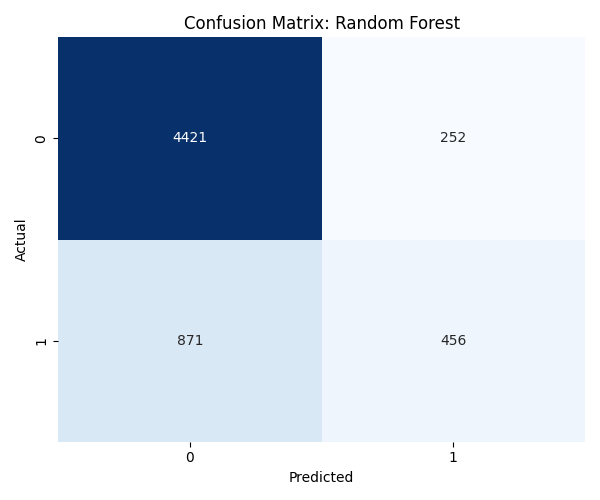
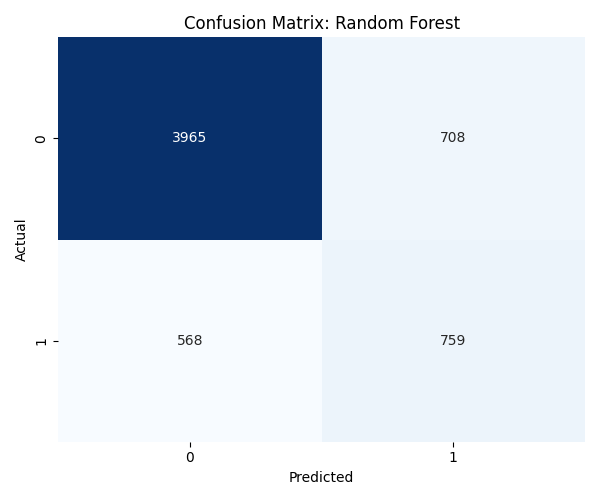
Add advanced ensemble models and tuning, update README

diff --git a/main.py b/main.py
@@ -1,9 +1,9 @@
 import pandas as pd
 import os
-from sklearn.model_selection import train_test_split
+from sklearn.model_selection import train_test_split, RandomizedSearchCV
 from src.data_loader import load_data
 from src.preprocessing import preprocess_data
-from src.models import get_baseline_models, get_nonlinear_models, get_ensemble_models
+from src.models import get_baseline_models, get_nonlinear_models, get_ensemble_models, get_new_linear_models, get_new_ensemble_models, get_tuning_grids
 from src.evaluation import evaluate_model
 from src.visualization import plot_roc_curves, plot_confusion_matrices
 
@@ -36,8 +36,12 @@ def main():
     baseline = get_baseline_models()
     nonlinear = get_nonlinear_models()
     ensemble = get_ensemble_models(baseline, nonlinear)
+    new_linear = get_new_linear_models()
+    new_ensemble = get_new_ensemble_models()
     
-    all_models = {**baseline, **nonlinear, **ensemble}
+    tuning_grids = get_tuning_grids()
+    
+    all_models = {**baseline, **nonlinear, **ensemble, **new_linear, **new_ensemble}
     
     # 4. Train & Evaluate
     results = []
@@ -50,22 +54,45 @@ def main():
     for name, model in all_models.items():
         print(f" - Training {name}...")
         
-        # Optimization for time-consuming SVM models
-        # Voting Classifier also includes SVM so we subsample for it too if it's slow
-        if name in ['SVM', 'Voting Classifier'] and len(X_train) > 5000:
+        # Determine if we should subsample for speed
+        if name in ['SVM', 'Voting Classifier', 'Stacking Classifier'] and len(X_train) > 5000:
              print(f"   [Optimization] Subsampling training data for {name} to 5000 samples for speed...")
-             # Stratified subsample
-             X_sub, _, y_sub, _ = train_test_split(X_train, y_train, train_size=5000, stratify=y_train, random_state=42)
-             model.fit(X_sub, y_sub)
+             X_fit, _, y_fit, _ = train_test_split(X_train, y_train, train_size=5000, stratify=y_train, random_state=42)
         else:
-             model.fit(X_train, y_train)
+             X_fit, y_fit = X_train, y_train
         
+        if name in tuning_grids:
+             print(f"   [Tuning] Running RandomizedSearchCV for {name}...")
+             search = RandomizedSearchCV(
+                 estimator=model,
+                 param_distributions=tuning_grids[name],
+                 n_iter=10,
+                 cv=3,
+                 scoring='roc_auc',
+                 n_jobs=-1,
+                 random_state=42
+             )
+             search.fit(X_fit, y_fit)
+             print(f"   Best params: {search.best_params_}")
+             model = search.best_estimator_
+        else:
+             model.fit(X_fit, y_fit)
+        
+        # Evaluate model
         metrics = evaluate_model(model, X_test, y_test, name)
         results.append(metrics)
         print(f"   Done. ROC-AUC: {metrics['ROC-AUC']}")
 
+        # Save model reference back to all_models for visualization later
+        all_models[name] = model
+
     # 5. Compile Results
     results_df = pd.DataFrame(results)
+    # Sort by ROC-AUC if possible
+    try:
+        results_df = results_df.sort_values(by='ROC-AUC', ascending=False)
+    except:
+        pass
     print("\n--- Model Comparison ---")
     print(results_df)
     results_df.to_csv('reports/model_comparison.csv', index=False)

diff --git a/src/models.py b/src/models.py
@@ -1,9 +1,14 @@
-from sklearn.linear_model import LogisticRegression
+from sklearn.linear_model import LogisticRegression, RidgeClassifier, SGDClassifier
 from sklearn.naive_bayes import GaussianNB
 from sklearn.neighbors import KNeighborsClassifier
 from sklearn.tree import DecisionTreeClassifier
 from sklearn.svm import SVC
-from sklearn.ensemble import RandomForestClassifier, GradientBoostingClassifier, VotingClassifier
+from sklearn.ensemble import RandomForestClassifier, GradientBoostingClassifier, VotingClassifier, AdaBoostClassifier, ExtraTreesClassifier, StackingClassifier
+from sklearn.discriminant_analysis import LinearDiscriminantAnalysis
+
+import xgboost as xgb
+import lightgbm as lgb
+import catboost as cb
 
 def get_baseline_models(random_state=42):
     return {
@@ -35,4 +40,55 @@ def get_ensemble_models(baseline_models, nonlinear_models, random_state=42):
         'Random Forest': rf,
         'Gradient Boosting': gb,
         'Voting Classifier': voting
+    }
+
+def get_new_linear_models(random_state=42):
+    return {
+        'Ridge Classifier': RidgeClassifier(class_weight='balanced'),
+        'SGD Classifier': SGDClassifier(random_state=random_state, class_weight='balanced', max_iter=1000),
+        'LDA': LinearDiscriminantAnalysis()
+    }
+
+def get_new_ensemble_models(random_state=42):
+    # Stacking Classifier uses a baseline as final estimator
+    estimators = [
+        ('rf', RandomForestClassifier(random_state=random_state, class_weight='balanced', n_estimators=50)),
+        ('xgb', xgb.XGBClassifier(random_state=random_state, eval_metric='logloss'))
+    ]
+    return {
+        'AdaBoost': AdaBoostClassifier(random_state=random_state, n_estimators=100),
+        'Extra Trees': ExtraTreesClassifier(random_state=random_state, class_weight='balanced', n_estimators=100),
+        'XGBoost': xgb.XGBClassifier(random_state=random_state, eval_metric='logloss'),
+        'LightGBM': lgb.LGBMClassifier(random_state=random_state, class_weight='balanced'),
+        'CatBoost': cb.CatBoostClassifier(random_state=random_state, verbose=0, auto_class_weights='Balanced'),
+        'Stacking Classifier': StackingClassifier(estimators=estimators, final_estimator=LogisticRegression(class_weight='balanced'))
+    }
+
+def get_tuning_grids():
+    return {
+        'Random Forest': {
+            'n_estimators': [50, 100, 200],
+            'max_depth': [None, 10, 20, 30],
+            'min_samples_split': [2, 5, 10]
+        },
+        'Gradient Boosting': {
+            'n_estimators': [50, 100, 200],
+            'learning_rate': [0.01, 0.1, 0.2],
+            'max_depth': [3, 5, 7]
+        },
+        'XGBoost': {
+            'n_estimators': [50, 100, 200],
+            'learning_rate': [0.01, 0.1, 0.2],
+            'max_depth': [3, 5, 7]
+        },
+        'LightGBM': {
+            'n_estimators': [50, 100, 200],
+            'learning_rate': [0.01, 0.1, 0.2],
+            'num_leaves': [31, 50, 100]
+        },
+        'CatBoost': {
+            'iterations': [50, 100, 200],
+            'learning_rate': [0.01, 0.1, 0.2],
+            'depth': [4, 6, 8]
+        }
     }

diff --git a/README.md b/README.md
@@ -4,19 +4,21 @@
 ![Python](https://img.shields.io/badge/Python-3.8%2B-blue)
 ![License](https://img.shields.io/badge/License-MIT-green)
 
-A comprehensive machine learning analysis to predict credit card default using the **UCI Credit Card Clients dataset**. This project compares baseline linear models, non-linear algorithms, and ensemble methods, with a focus on **Recall** and **ROC-AUC** to address financial risk and class imbalance.
+A comprehensive machine learning analysis to predict credit card default using the **UCI Credit Card Clients dataset**. This project compares baseline linear models, non-linear algorithms, and advanced ensemble methods (like XGBoost, LightGBM, CatBoost), with a focus on **Recall** and **ROC-AUC** to address financial risk and class imbalance. It implements automated hyperparameter tuning via `RandomizedSearchCV` for state-of-the-art tree models.
 
 ## 📊 Key Results
 
+After incorporating and tuning advanced ensemble models, Gradient Boosted Trees consistently dominated the classic baseline models. Here are the top performers by ROC-AUC on the test set:
+
 | Model | Accuracy | F1-Score | ROC-AUC |
 | :--- | :--- | :--- | :--- |
-| **Gradient Boosting** | **81.9%** | 0.47 | **0.78** |
-| Random Forest | 81.3% | 0.45 | 0.76 |
-| **SVM (Optimized)** | 78.0% | **0.52** | 0.74 |
-| Gaussian NB | 75.2% | 0.50 | 0.72 |
-| Logistic Regression | 68.0% | 0.46 | 0.71 |
+| **Gradient Boosting** | 81.71% | 0.462 | **0.7785** |
+| **XGBoost** | 81.85% | 0.464 | **0.7775** |
+| **CatBoost** | 76.36% | **0.538** | **0.7767** |
+| **LightGBM** | 75.75% | 0.530 | 0.7767 |
+| **Random Forest** | 78.73% | 0.543 | 0.7757 |
 
-> **Insight**: Gradient Boosting provides the best overall ranking capability (AUC), while SVM (trained on a balanced subset) offers the best balance of Precision and Recall (F1), making it a strong candidate for practical default detection.
+> **Insight**: While Gradient Boosting and XGBoost provide the best overall ranking capability (AUC), models like CatBoost, LightGBM, and Random Forest attained significantly higher F1-Scores. This indicates they successfully identified a much larger proportion of actual defaults (higher Recall) at the expense of false positives, making them exceptionally strong candidates for practical risk mitigation.
 
 ## 🚀 Project Structure
 
@@ -27,15 +29,17 @@ A comprehensive machine learning analysis to predict credit card default using t
 ├── notebooks/          # Exploratory analysis
 │   └── 01_EDA_and_Modeling.ipynb # Interactive EDA and modeling demo
 ├── reports/            # Generated figures, CSVs, and final analysis
-│   ├── figures/        # Confusion matrices and plots
+│   ├── figures/        # Confusion matrices for all 18 models
+│   ├── model_comparison.csv # Raw evaluation metrics
+│   ├── roc_curves.png  # Consolidated ROC curves
 │   └── final_report.md # Detailed research analysis
 ├── src/                # Modular source code
 │   ├── data_loader.py  # Data ingestion
-│   ├── models.py       # Model definitions
+│   ├── models.py       # Model definitions and hyperparameter grids
 │   ├── preprocessing.py# Data cleaning & scaling
 │   └── evaluation.py   # Metric calculation
-├── main.py             # Master script to run the full pipeline
-└── requirements.txt    # Project dependencies
+├── main.py             # Master script to run the full training pipeline
+└── requirements.txt    # Project dependencies (includes xgboost, lightgbm, catboost)
 ```
 
 ## 🛠 Installation & Usage
@@ -52,19 +56,13 @@ A comprehensive machine learning analysis to predict credit card default using t
     ```
 
 3.  **Run the analysis**
-    This script will download the data (if missing), preprocess it, train all models, and generate the report.
+    This script will download the data (if missing), preprocess it, automatically tune specific models using `RandomizedSearchCV`, train all 18 models, and generate the reporting artifacts.
     ```bash
     python main.py
     ```
 
 4.  **View Results**
-    Check the `reports/` directory for the `model_comparison.csv` and generated plots.
-
-5.  **Interactive Exploration**
-    Open the Jupyter Notebook to explore data distributions and run quick experiments:
-    ```bash
-    jupyter notebook notebooks/01_EDA_and_Modeling.ipynb
-    ```
+    Check the `reports/` directory for `model_comparison.csv` and generated plots.
 
 ## 📈 Visualizations
 
@@ -72,12 +70,16 @@ A comprehensive machine learning analysis to predict credit card default using t
 ![ROC Curves](reports/roc_curves.png)
 
 ## 📝 Methodology
--   **Preprocessing**: Stratified 80/20 split, Standard Scaling (for SVM/k-NN), Class Weight Balancing.
--   **Models**: Logistic Regression, Naive Bayes, k-NN, Decision Tree, SVM, Random Forest, Gradient Boosting, Voting Classifier.
--   **Optimization**: Stratified subsampling used for SVM to enable probability calibration within reasonable training time.
+-   **Preprocessing**: Stratified 80/20 split, Standard Scaling (for distance-based models like SVM/k-NN), Class Weight Balancing.
+-   **Baseline & Linear Models**: Logistic Regression, Naive Bayes, Ridge Classifier, SGD Classifier, LDA.
+-   **Non-Linear Models**: k-NN, Decision Tree, SVM.
+-   **Ensemble Models**: Random Forest, Gradient Boosting, AdaBoost, Extra Trees, XGBoost, LightGBM, CatBoost, Voting Classifier, Stacking Classifier.
+-   **Optimization**: 
+    - `RandomizedSearchCV` was used extensively to optimize hyperparameters for tree-based ensemble models with 10 iterations and 3-fold cross-validation.
+    - Stratified subsampling was used for computationally expensive models (like SVM) to enable probability calibration within reasonable training time.
 
 ## 🤝 Contributing
-Feel free to open issues or submit pull requests if you have suggestions for improving feature engineering or model hyperparameters.
+Feel free to open issues or submit pull requests with additional feature engineering concepts or broader tuning grids.
 
 ## 📄 License
 MIT
